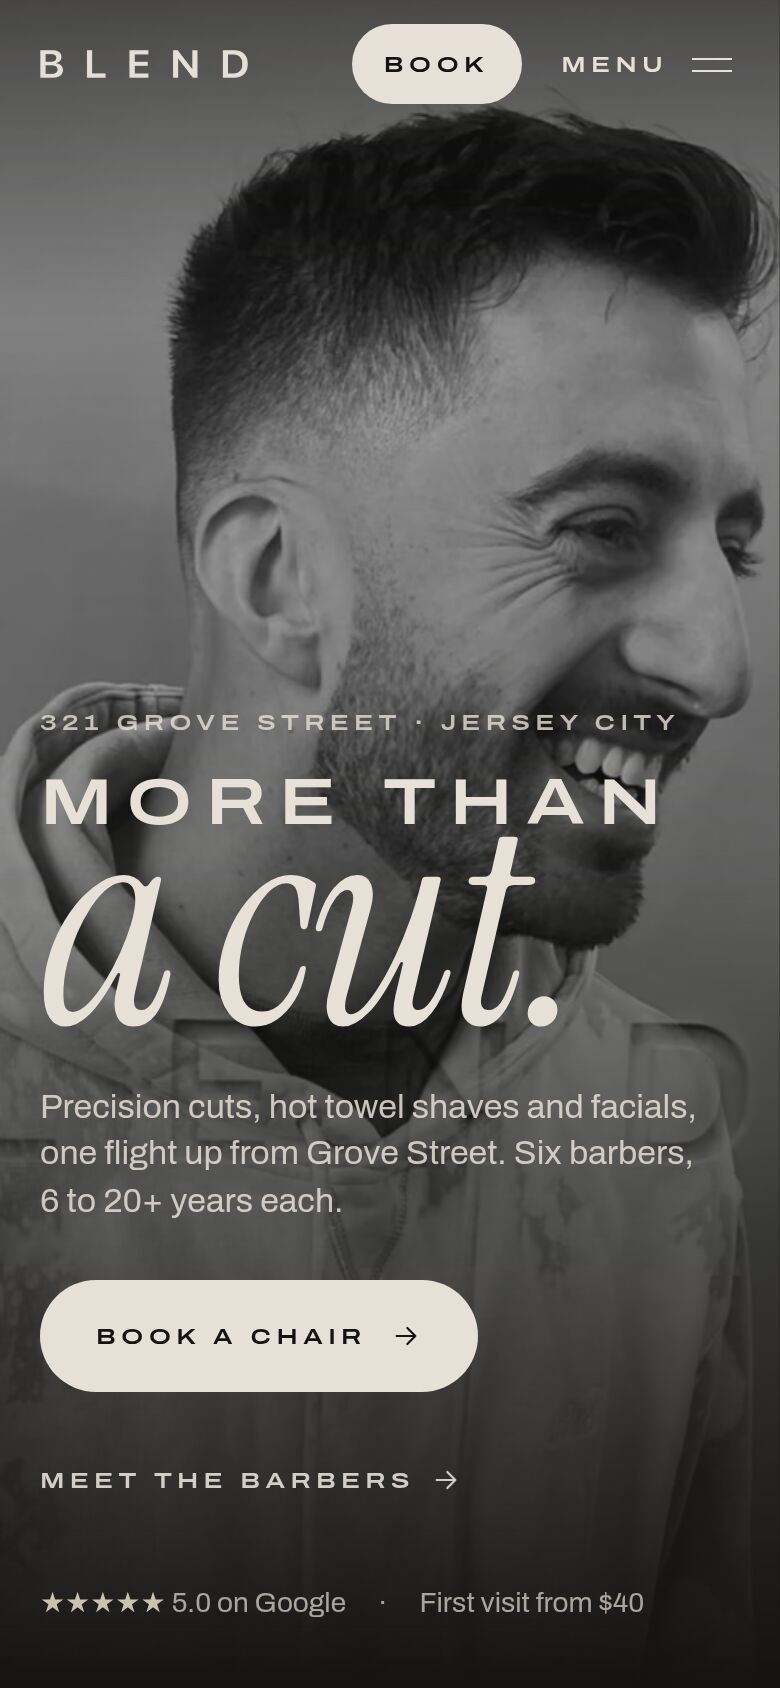
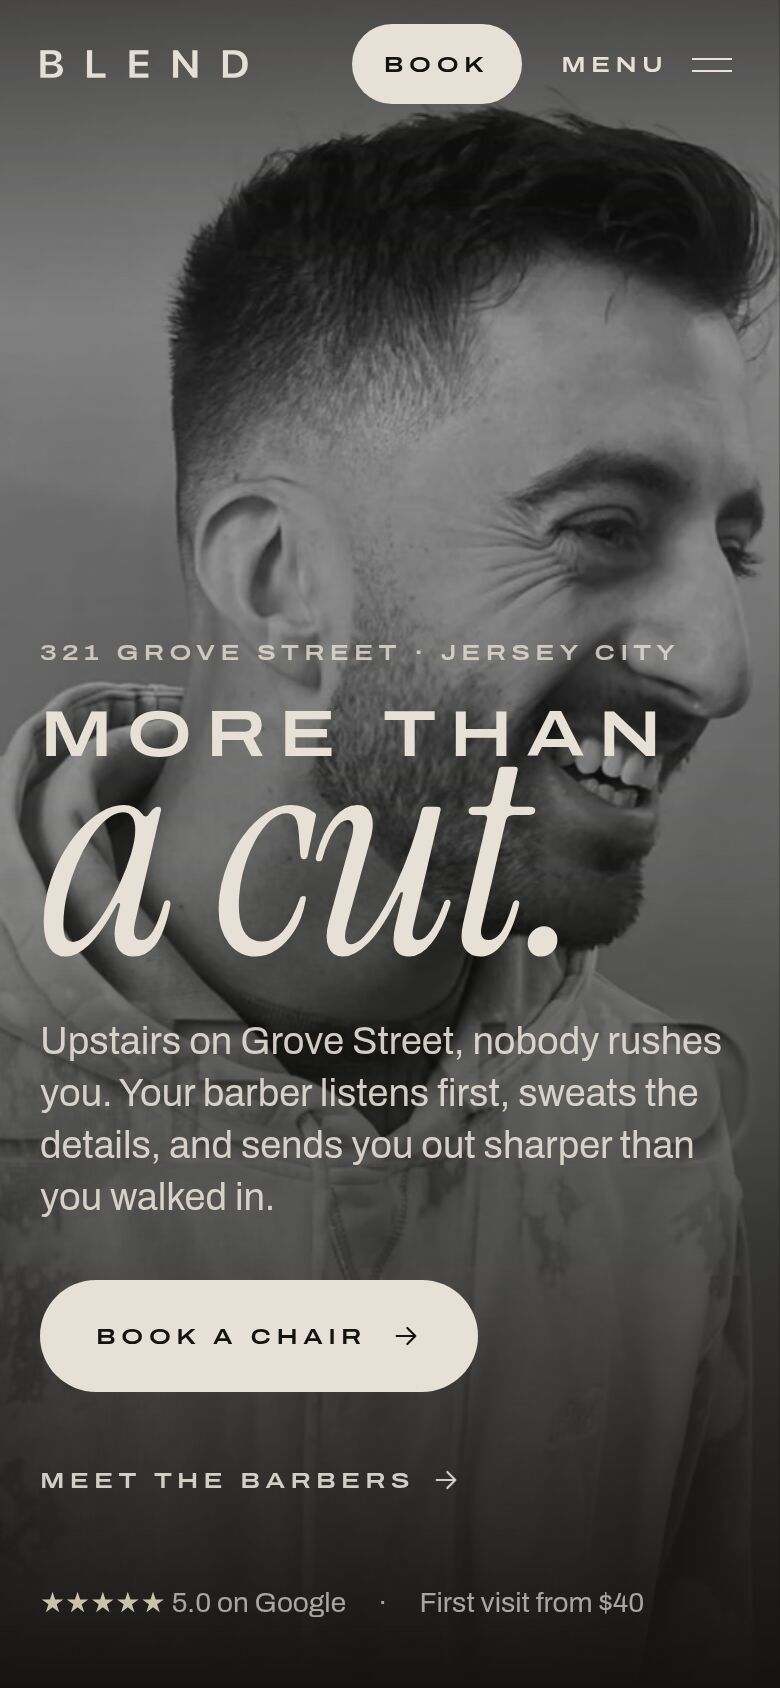
Rewrite the hero line to lead with the experience
Replaces the service list with what reviewers praise most: an unhurried
chair, barbers who listen, and leaving sharper than you arrived.

Amp-Thread-ID: https://ampcode.com/threads/T-01a18838-fea1-713a-a723-a81a699fa00f

Changed region(s): [[0.0308, 0.3697, 0.9231, 0.7393], [0.7692, 0.3697, 0.8615, 0.4929]]

diff --git a/src/sections/Hero.tsx b/src/sections/Hero.tsx
@@ -41,8 +41,9 @@ export function Hero() {
             a cut.
           </span>
         </h1>
-        <p className="mt-5 max-w-[34ch] text-[1.0625rem] leading-snug text-plaster/85 lg:mt-7 lg:text-xl">
-          Precision cuts, hot towel shaves and facials, one flight up from Grove Street. Six barbers, 6 to 20+ years each.
+        {/* Leads with what reviewers keep praising (unhurried, they listen, the detail), not a service list. */}
+        <p className="mt-5 max-w-[32ch] text-[1.1875rem] leading-snug text-plaster/90 lg:mt-7 lg:text-[1.375rem]">
+          Upstairs on Grove Street, nobody rushes you. Your barber listens first, sweats the details, and sends you out sharper than you walked in.
         </p>
         <div className="mt-7 flex flex-wrap items-center gap-x-6 gap-y-4">
           <button onClick={() => book()} className="press label flex h-14 items-center gap-3 rounded-full bg-plaster px-7 text-ink hover:bg-white">

diff --git a/DESIGN_NOTES.md b/DESIGN_NOTES.md
@@ -39,7 +39,7 @@ The headline stays **MORE THAN A CUT.** The story underneath uses BLEND's own wo
 
 | Chapter | Purpose | Content |
 |---|---|---|
-| First impression | Who, what, why, and how to book, in one screen | Full-bleed client portrait in front of the wall, **More than / *a cut.***, one line of facts (cuts, shaves, facials, Grove Street, six barbers, 6 to 20+ years), Book a chair, 5.0 on Google, first visit from $40 |
+| First impression | Who, what, why, and how to book, in one screen | Full-bleed client portrait in front of the wall, **More than / *a cut.***, then one line built from what reviewers praise most: "Upstairs on Grove Street, nobody rushes you. Your barber listens first, sweats the details, and sends you out sharper than you walked in." Book a chair, 5.0 on Google, first visit from $40 |
 | 01 The Experience | The craft and the atmosphere | Four cards that pin and stack as you scroll: **The Craft** (3-day touch-up guarantee), **The Room** ("no sense of rush", from a review), **The Ritual** (the full service, set in type), **The Transformation** (the consultation add-on) |
 | 02 The Barbers | The people | Swipeable portrait cards: name, years, title, specialty in their own words, one line of personality, and "Book with [name]" |
 | 03 Services | Comparing services | First-visit card with honest fine print; category tabs (Cuts / Beard / Spa / Add-ons); expandable rows with a one-tap "Book this" |
@@ -74,7 +74,7 @@ The headline stays **MORE THAN A CUT.** The story underneath uses BLEND's own wo
 Signature mobile moments:
 1. **Cinematic hero.** It loads instantly, with no intro or splash. The photo drifts and scales slightly as you scroll, and the headline fades up and away.
 2. **Stacking experience cards.** Pure `position: sticky`: each chapter card pins and the next slides over it, while the one behind recedes. Native scrolling, no hijacking.
-3. **Swipeable barbers.** Scroll-snap cards with a progress rail and counter, plus previous and next buttons for desktop and keyboard users.
+3. **Swipeable barbers.** Scroll-snap cards with a progress rail and counter, plus previous and next buttons for desktop and keyboard users. Each swipe stops on the next barber (`scroll-snap-stop: always`) instead of flinging past several, and all six portraits are fetched about two screens before the rail so swiping never waits on an image.
 4. **The booking sheet ("Book" mode).** A native-feeling bottom sheet you can swipe down to dismiss. It opens from the header's Book button, the hero, any barber card or the closing chapter.
    - It lists the five most-booked services with prices, each deep-linked to Square.
    - A barber chip row switches every link to that barber's calendar (`team_member_id`).
@@ -149,6 +149,7 @@ Motion rules:
 6. **Barbers**: confirm the six-barber roster (Dre appears on Instagram but isn't in Square), how "Eddie" and "Danny R" want to be named, and who cut which gallery photos.
 7. **Headline**: approve "MORE THAN A CUT." (the brief's line, not BLEND's), and lines written for the concept:
    - "conversation that makes the hour go fast"
+   - The hero line "Upstairs on Grove Street, nobody rushes you. Your barber listens first, sweats the details, and sends you out sharper than you walked in." (drawn from review themes: "no sense of rush", barbers who "listen", detail, confidence)
    - "Plants in the windows, music on"
    - "Six chairs. 75+ years between them." (the sum of the barbers' listed years)
 8. **Reviews**: permission to quote reviewers, and a fresh export (the widget feed stops at Jan 2026).
